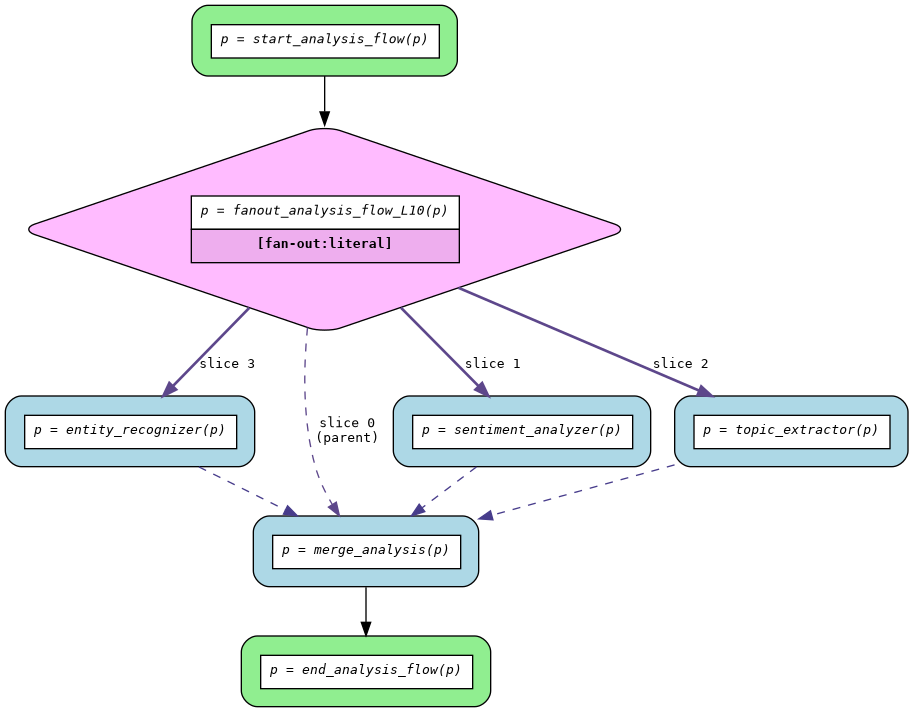
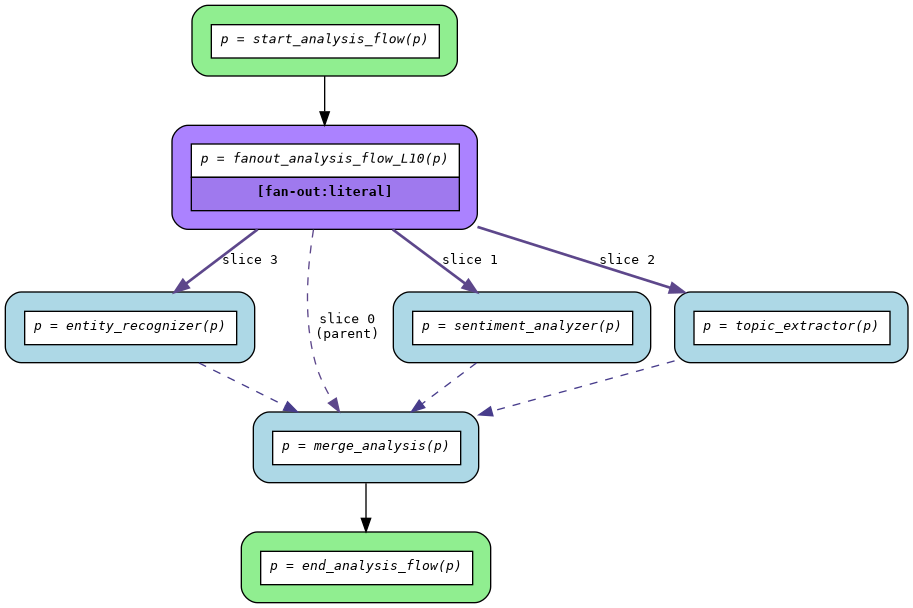
Finish adjusting colors

Changed region(s): [[0.0, 0.1562, 1.0, 1.0], [0.2147, 0.0, 0.5214, 0.125]]

diff --git a/src/asya-cli/asya_cli/flow/dotgen.py b/src/asya-cli/asya_cli/flow/dotgen.py
@@ -298,7 +298,7 @@ class DotGenerator:
         if router.name.startswith("start_") or router.name.startswith("end_"):
             color = "lightgreen"
         elif router.is_fan_out:
-            color = "plum1"
+            color = "mediumpurple1"
         else:
             color = "wheat"
 
@@ -328,16 +328,14 @@ class DotGenerator:
 
         if router.is_fan_out and router.fan_out_op:
             fan_out = router.fan_out_op
-            rows.append(f'<tr><td bgcolor="plum2" align="center"><b>[fan-out:{fan_out.pattern}]</b></td></tr>')
+            rows.append(f'<tr><td bgcolor="mediumpurple2" align="center"><b>[fan-out:{fan_out.pattern}]</b></td></tr>')
             if fan_out.iter_var and fan_out.iterable:
                 iter_text = self._truncate_text(f"for {fan_out.iter_var} in {fan_out.iterable}")
-                rows.append(f'<tr><td bgcolor="plum3" align="left">{self._escape_html(iter_text)}</td></tr>')
+                rows.append(f'<tr><td bgcolor="mediumpurple3" align="left">{self._escape_html(iter_text)}</td></tr>')
 
         label = f'<<table border="0" cellspacing="0" cellpadding="6" cellborder="1">{"".join(rows)}</table>>'
 
-        shape = "diamond" if router.is_fan_out else "box"
-        extra = f", shape={shape}" if router.is_fan_out else ""
-        return f'  {self._node_id(router.name)} [fillcolor="{color}", label={label}{extra}];'
+        return f'  {self._node_id(router.name)} [fillcolor="{color}", label={label}];'
 
     def _generate_user_actor_node(self, actor_name: str) -> str:
         display_name = self._get_display_name(actor_name)
